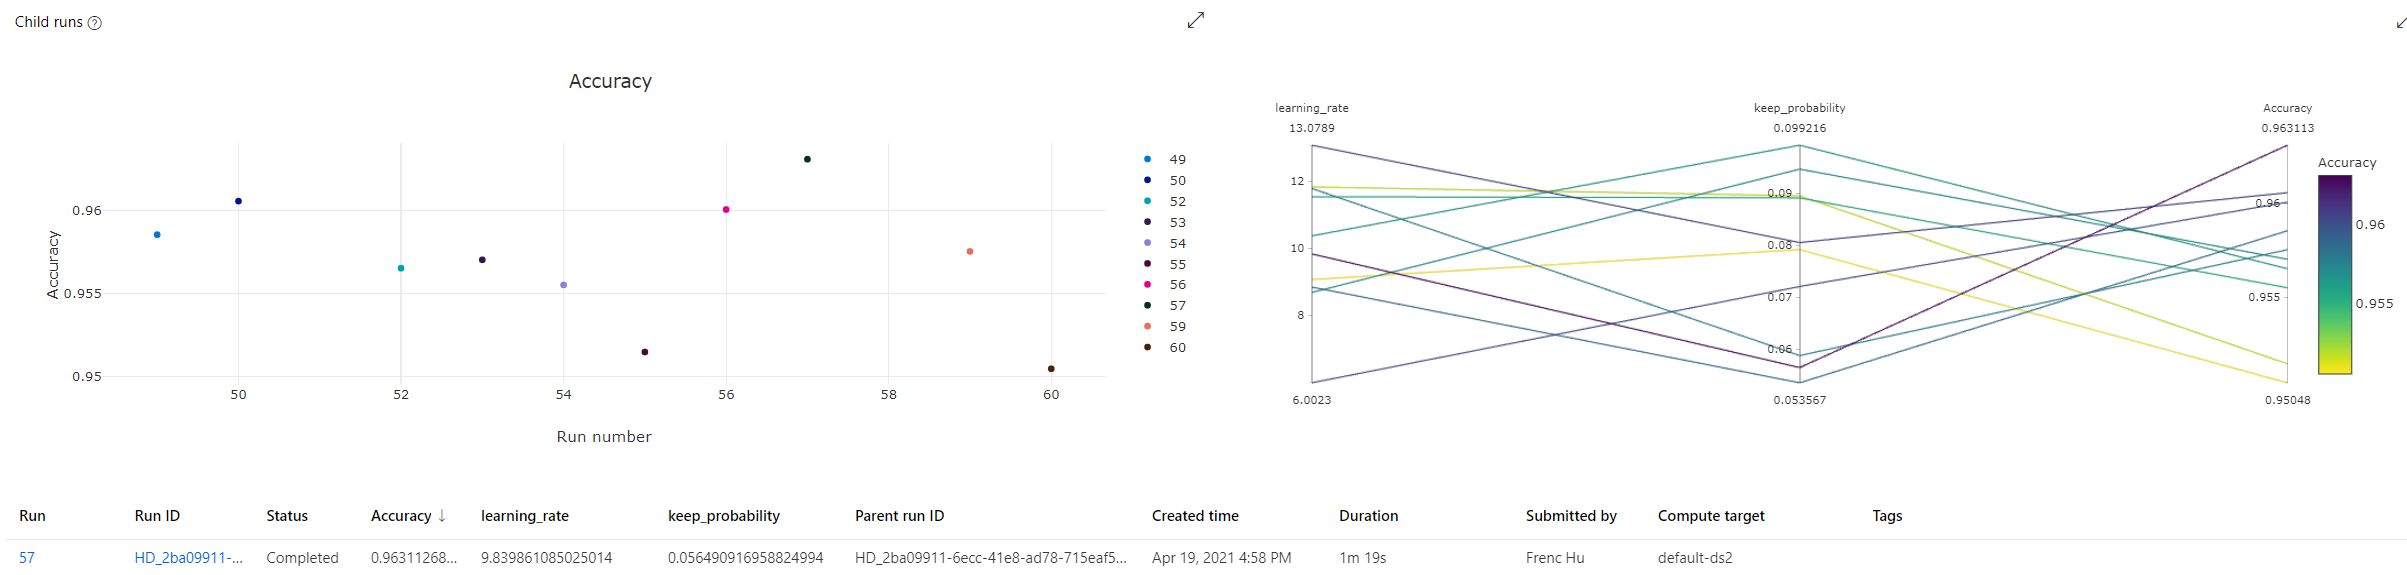
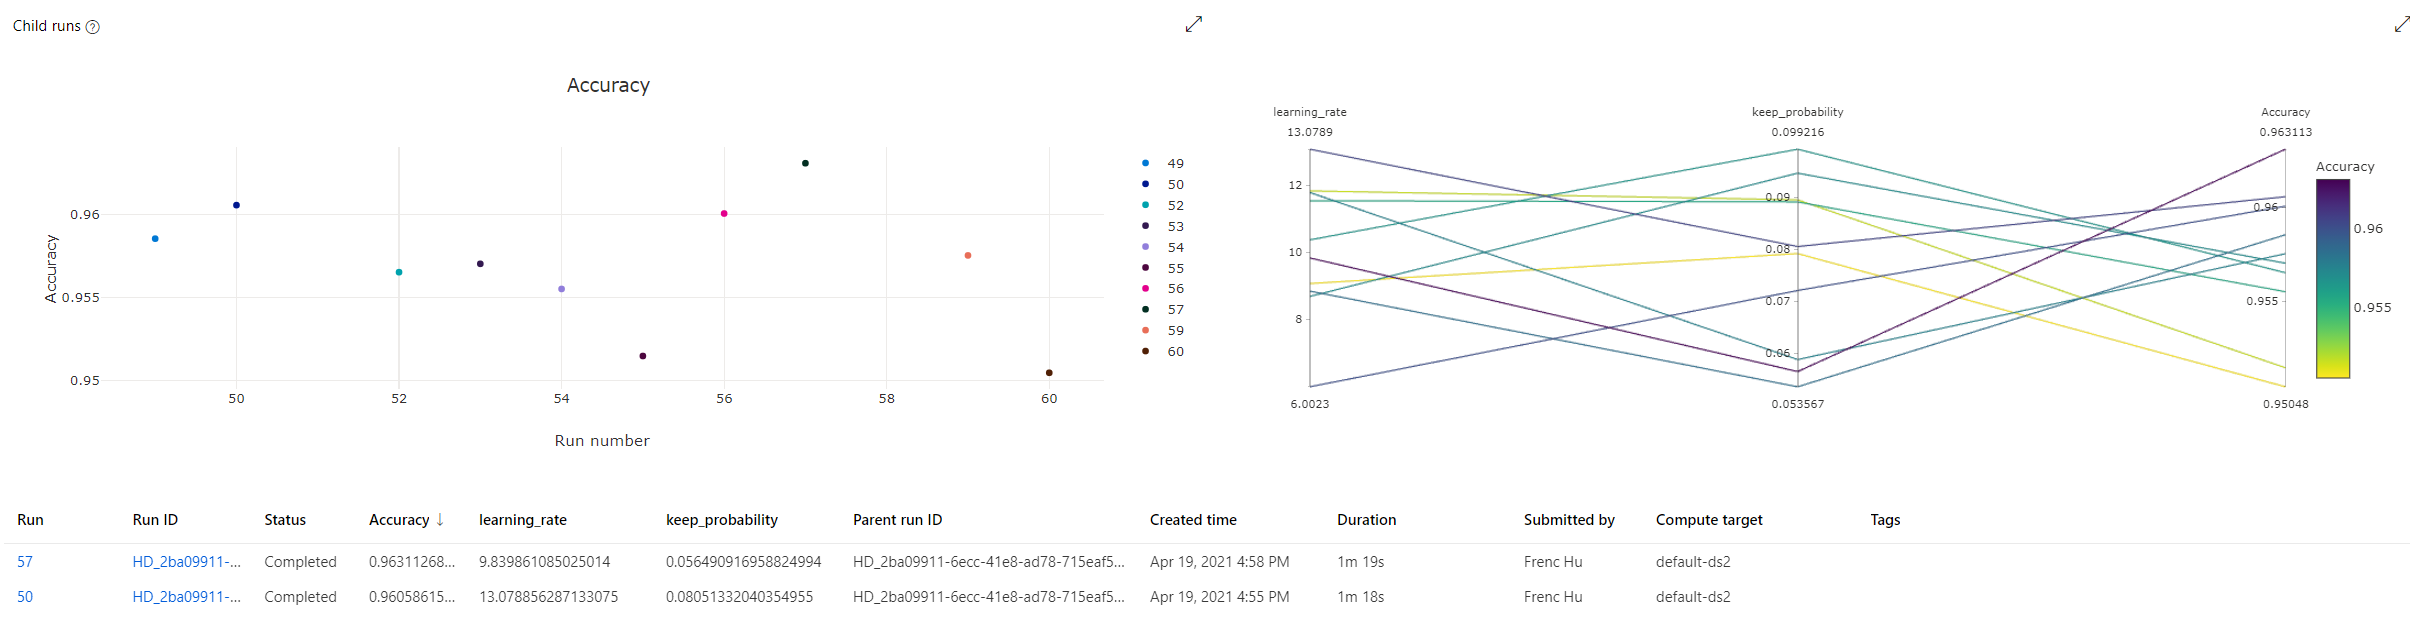
changed screenshots and updated readme

diff --git a/starter_file/README.md b/starter_file/README.md
@@ -1,3 +1,4 @@
+
 # Potentially Deadly Mushroom Classification
 
 # Table of Contents
@@ -6,7 +7,7 @@
 	1. [Overview](#overview)
 	2. [Task](#task)
 	3. [Access](#access)
-3. [Automated ML](#auotml)
+3. [Automated ML](#automl)
 	1. [Results](#automl-results)
 4. [Hyperparameter Tuning](#hyper)
 	1. [Results](#hyper-results)
@@ -14,9 +15,10 @@
 6. [Screencast](#screencast)
 7. [Standout Suggestions](#standout)
 
-This dataset is called the Mushroom Classification dataset from Kaggle, source: https://www.kaggle.com/uciml/mushroom-classification.
+This dataset is called the Mushroom Classification dataset from Kaggle, source: https://www.kaggle.com/uciml/mushroom-classification.  
 The goal of this project is to be able to accurately identify poisonous and edible mushrooms based on the features and qualities provided. I will 
 be using both AutoML and SKLearn+Hyperdrive to determine which method will produce a model with the highest accuracy.
+
 "This dataset includes descriptions of hypothetical samples corresponding to 23 species of gilled mushrooms in the Agaricus and Lepiota Family 
 Mushroom drawn from The Audubon Society Field Guide to North American Mushrooms (1981). Each species is identified as definitely edible, 
 definitely poisonous, or of unknown edibility and not recommended. This latter class was combined with the poisonous one. The Guide clearly states 
@@ -24,7 +26,7 @@ that there is no simple rule for determining the edibility of a mushroom; no rul
 
 ## Project Set Up and Installation <a name="setup" />
 My project has no special installation steps. I ran it on my personal AzureML account on my local machine. The notebooks are written so it can be 
-run on any valid AzureML subscription.
+run on any valid AzureML subscription.  
 I did find it easier to upload the dataset directly to Azure but as is showcased in my Hyperdrive training script, I can also pull the data 
 directly from my github.
 
@@ -74,32 +76,108 @@ the URL for the raw .csv data as my datapath.
 You will see in my Hyperdrive training script that I pull the data directly from my github and utilize it for the hyperparameter tuning run.
 
 ## Automated ML <a name="automl" />
-For this project, I started with a lot of the default automl configuration settings as the previous two projects.
+My AutoML settings are as follows: 
+automl_settings = {
+                    "experiment_timeout_hours" : 0.5,
+                    "enable_early_stopping" : True,
+                    "iteration_timeout_minutes": 5,
+                    "max_concurrent_iterations": 2,
+                    "max_cores_per_iteration": -1,
+                    "featurization": 'auto',
+                    "verbosity": logging.INFO,
+                }
+I chose these settings at first because they were the default configuration settings for the first project and they seemed reasonable for this 
+project as well. I was fully prepared to change or tweak the settings as needed if I wasn't getting the results I wanted but these settings ended 
+up working pretty well.
+Experiment timeout was sufficient because the runs usually took between 15-20 minutes.  
+Enable early stopping is true because if I hit a point where my metric goals were met, I wanted to be able to conserve resources and end the run 
+early.  
+Iteration timeout was reasonable as well because most of my iterations took less than a minute and if it timed out, it would have been a very 
+clear indication that I had a problem somewhere.  
+Max concurrent iterations and max cores per iteration were derived from the compute instance I was using which only had two cores.  
+Featurization was set to auto because I wasn't entirely clear which features were more important than others. I also did not have a sparse amount 
+of data so featurization was possible.
+
+Since I did two runs, one with One Hot Encoding and one with Label Encoding, my AutoMLConfig was slightly different for the two runs but mainly 
+just in 
+detemining which dataframes were used.  
+The task was always classification, the primary metric was always accuracy, the number of cross validations was always 5 and I always tried to 
+enable onxx_compatible_models.  
+This is a classification task because I am trying to determine if a mushroom is either poisonous or edible and accuracy is a good primary metric 
+because you want correct predictions from the model.
+
+### Results <a name="automl-results" />
+The best accuracy model from my One Hot encoded run was MaxAbsScaler, LightGBM with an accuracy of 100%!  
+Feature importance had odor_n being the most important by far with a weight of 3.8 while the next most important feature was stalk_root_c with a 
+weight of 0.6.
+
+The best accuracy model from my Label Encoded run was VotingEnsemble with an accuracy of 100%. The MaxAbsScaler, LightGBM model only gave an 
+accuracy of 0.99988 for the label encoded dataset.  
+The ensembled algorithms were ['LightGBM', 'LightGBM', 'LightGBM', 'LightGBM', 'LightGBM'] with weights of  [0.3333333333333333, 
+0.16666666666666666, 0.16666666666666666, 0.16666666666666666, 0.16666666666666666]. This meant that the results of 5 different LightGBM 
+iterations were ensembled together to produce the final result of 100% accuracy!  
+Feature importance for this run had gill-color at the highest importance with a weight of 1.3 followed by spore-print-color at 0.6 and population 
+at 0.43. This showed me that both types of encoding would get me to an accuracy of 100% but the features and weights that comprised those models 
+were very different.  
+It is interesting to note that before I removed veil-color and gill-attachment from the data, odor was the feature with the highest importance for 
+the label encoded run as well with an accuracy of 100% but once those features were removed, it changed to gill color. I'm not quite sure why this 
+is but if I had more time, I would explore this phenomenon.  
+
+I ultimately decided to go with the Label Encoded run as my best model because it weighted the features more evenly while still producing results 
+of 100% accuracy.
+
+Run Details
+<img src="Screenshots/rundetails-le.PNG"
+     alt="Run Details Label Encoded" />
+Best Model
+<img src="Screenshots/best_run-le.PNG"
+     alt="Best Model Label Encoded" />
+<img src="Screenshots/best_run-le2.PNG"
+     alt="Best Model AutoML" />
+
+## Hyperparameter Tuning <a name="hyper" />
+For this project I chose the logistic regression model because I label encoded my data and then scaled it using StandardScaler which gave me 
+continuous values for a lot of my features. I considered using One-Hot Encoding and using a KNN model as well but upon seeing the results of the 
+AutoML run, I decided that I should stick with label encoding so I could properly compare my results and I decided to use logistic regression 
+because I was curious to see how well it would perform.
+
+For this project, I started with a lot of the default hyperdrive configuration settings as the first project.
 I decided to start somewhere familiar and then if I wasn't getting the results I was expecting or I was getting results I wasn't satisfied with, I 
-would tweak the parameters and configuration settings as I went but I discovered that a lot of the settings from the last two projects worked well 
-for this one as well.
+would tweak the parameters and configuration settings as I went but I discovered that a lot of the settings from the first project worked well 
+for this one as well.  
 I used BanditPolicy (terminates runs where the primary metric is smaller than (Metric + Metric*Slack_Factor)) as my early termination method 
 because it allows for early termination of low performance runs. I chose it over the other two options because it is the most aggressive about 
 saving money and as I was on a personal Azure account, I didn't want to run up a large bill. Budget aside, I had no issues obtaining satisfying 
-results with BanditPolicy so I decided to not change it.
+results with BanditPolicy so I decided to not change it.  
 I used Random Parameter Sampling because it supports early termination of low performance runs and it was the best choice of my options because I 
 wasn't doing a lot of runs which Bayesian sampling needs (ideally 20+). I also wanted to sweep over a range of continuous hyperparameter values so 
-grid sampling was out because it only supports discrete hyperparameter values.
-
-### Results <a name="automl-results" />
-*TODO*: What are the results you got with your automated ML model? What were the parameters of the model? How could you have improved it?
-
-*TODO* Remeber to provide screenshots of the `RunDetails` widget as well as a screenshot of the best model trained with it's parameters.
-
-## Hyperparameter Tuning <a name="hyper" />
-*TODO*: What kind of model did you choose for this experiment and why? Give an overview of the types of parameters and their ranges used for the 
-hyperparameter search
-
+grid sampling was out because it only supports discrete hyperparameter values.  
+The ranges I chose for my hyperparameters (learning rate and keep probability) started out as the same as the previous projects but then I did 
+runs with the ranges both higher and lower in order to see what kind of impact it had on my results. In both cases, I got lower accuracy when I 
+tweaked the ranges so I kept learning rate at normal(10,3) which is a range centered around 10 with a standard deviation of 3 and I kept the keep 
+probability at uniform(0.05,0.1).  
+I tried values of normal(15,2), normal(8,3) and normal(5,3) to see if I would get better results with a higher or lower range 
+of values but accuracy was slightly lower for those runs than at normal(10,3). I also tried values of uniform(0.01,0.1), uniform(0.01,0.15), 
+uniform(0.05, 0.15) 
+for keep probability but they also returned slightly lower accuracy than the default value.
 
 ### Results <a name="hyper-results" />
-*TODO*: What are the results you got with your model? What were the parameters of the model? How could you have improved it?
+The results of my hyperdrive model gave me an accuracy of 0.963 with a learning rate of 9.83986 and a keep probability of 0.05649. The results of 
+the other runs with higher and lower learning rate and keep probabilities produced models with accuracies of 0.962 at their best but the parameter 
+ranges of normal(10,3) and normal(0.05,0.1) for learning rate and keep probability respectively just edged out the other ranges.  
+I could have improved this model by exploring even more combinations of ranges and maybe narrowing down the ranges once I knew the general 
+vicinity of the best values. Maybe these parameter values are local maxes and 100% accuracy is achievable with logistic regression but the ranges 
+are something completely different. This hyperdrive run really just gave me the starting point and if I were to refine this project in the future, 
+I would continue looking for the best hyperparameters to maximize accuracy.
 
-*TODO* Remeber to provide screenshots of the `RunDetails` widget as well as a screenshot of the best model trained with it's parameters.
+Run Details
+<img src="Screenshots/rundetails-hyper.png"
+     alt="Run Details Hyperdrive" />
+Best Model
+<img src="Screenshots/best_run-hyper.PNG"
+     alt="Best Model Hyperdrive" />
+<img src="Screenshots/best_run_details-hyper.PNG"
+     alt="Best Model Hyperdrive" />
 
 ## Model Deployment <a name="deploy" />
 *TODO*: Give an overview of the deployed model and instructions on how to query the endpoint with a sample input.
